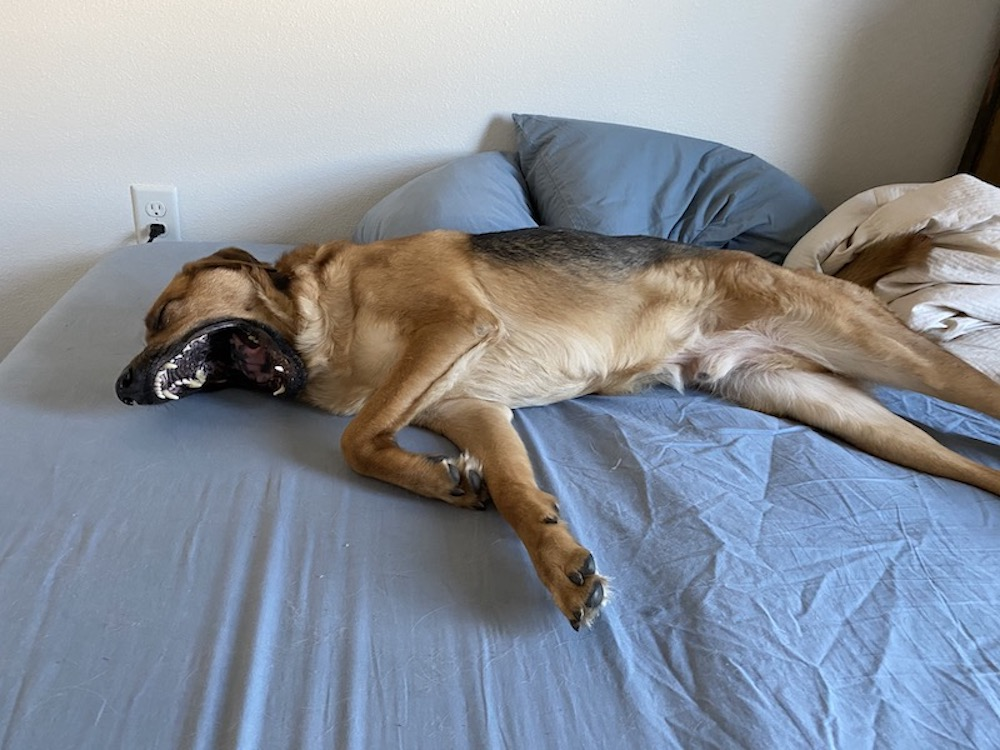
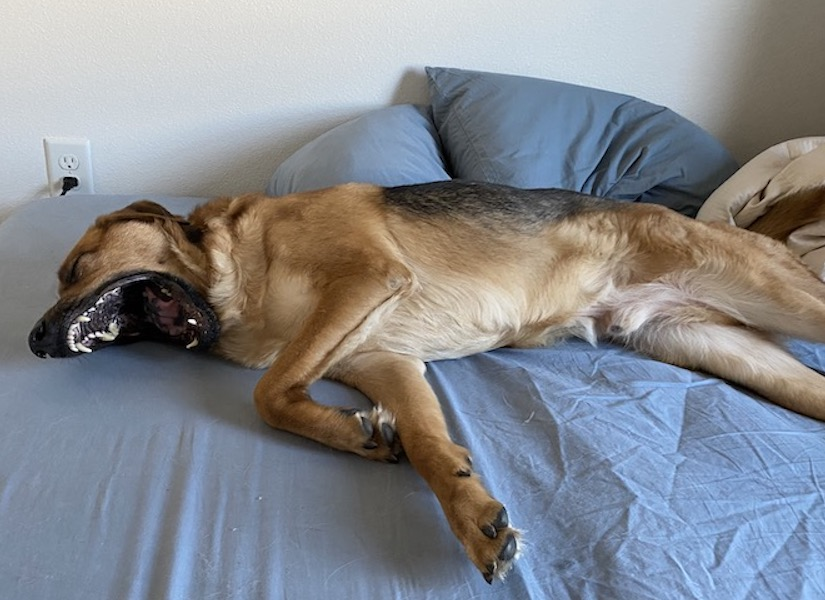
added cover

diff --git a/index.html b/index.html
@@ -31,6 +31,8 @@
                 <div class="card"><a href = "matter.html"><img src = "images/matter.png"></a></div>
                 <div class="card"><a href = "sticky.html"><img src = "images/gunther.png"></a></div>
                 <div class="card"><a href = "split.html"><img src = "images/split.jpg"></a></div>
+                <div class="card"><a href = "sliderpics.html"><img src = "images/sliderimagecover.jpg"></a></div>
+
             </div>
 
         </main>
